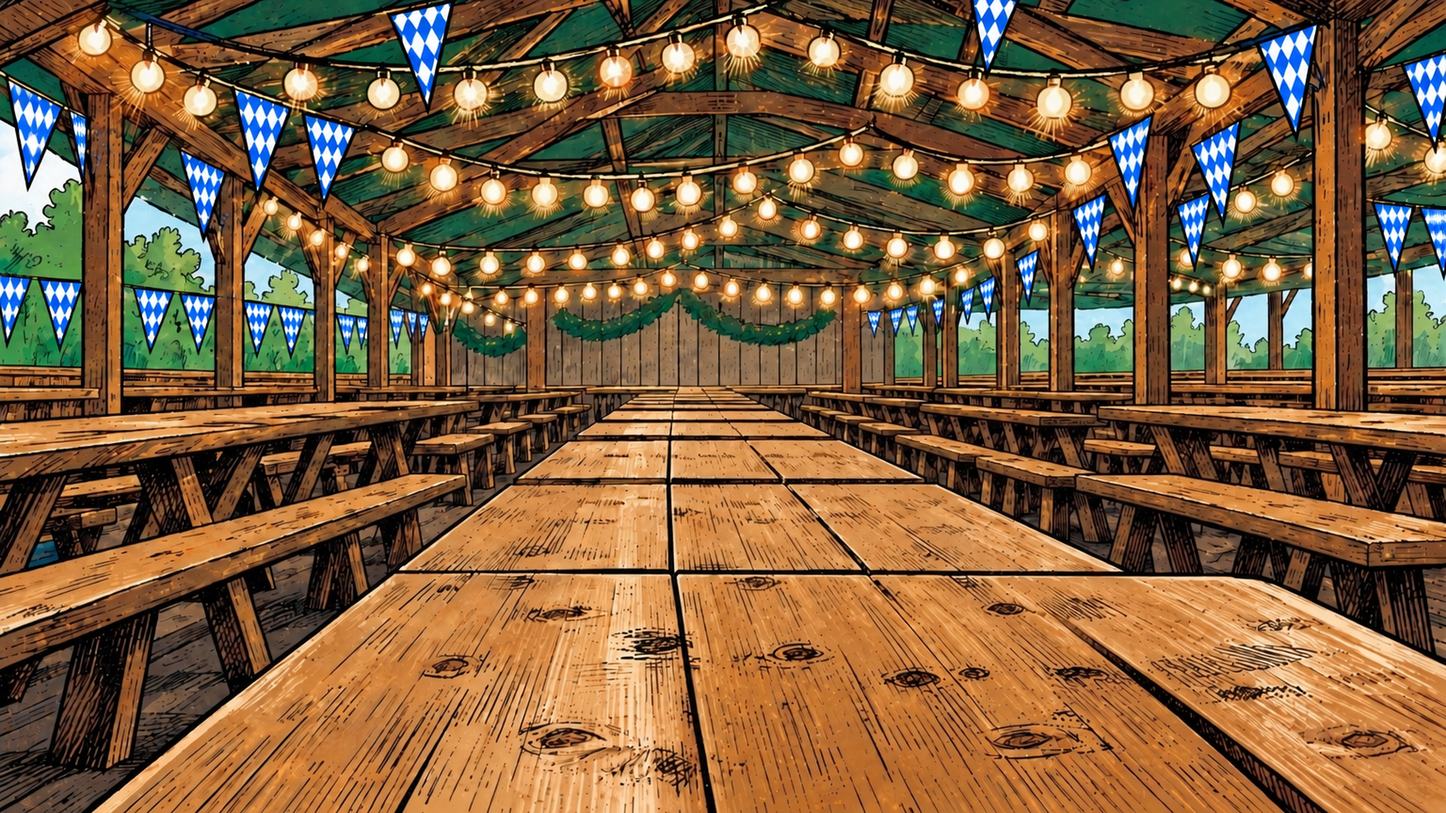
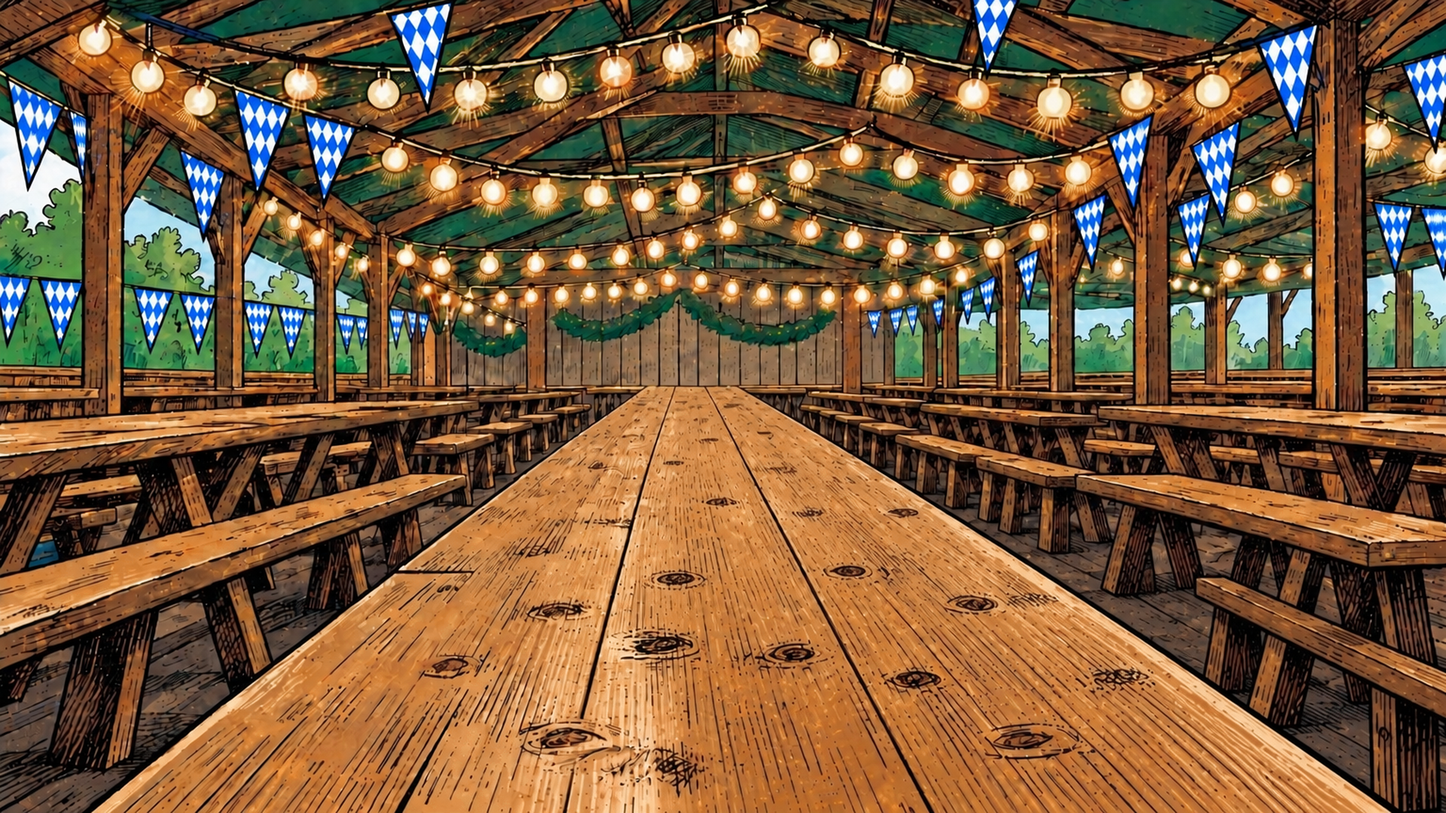
Save screen: tent table mended (r97)
Claude-Session: https://claude.ai/code/session_01GrbNTwVienMcpmsk1Pgq12

diff --git a/guides/DESIGNER_MANUAL.md b/guides/DESIGNER_MANUAL.md
@@ -7681,7 +7681,7 @@ at any button size; only its middle stretches.
 **Beer mug save screen (19 Oct 2026, Anthony: "Three different beer mugs
 (that are the save file) large on a table").** The `slot` rows draw a beer
 tent seen from table height, like his photo (`assets/ui/save/mugs/beer_tent.png`,
-r94-r96: a long table running into the tent under strings of lights, neat
+r94-r97: one continuous long table running into the tent under strings of lights, neat
 flags, the lights' yellow cast taken out for free), and a football on the
 bench on the left (`ball.png`). Every button is the drawn plank
 from the title screen (`button_plank_drawn.png`, `Scale` 1 = drawn smooth at
